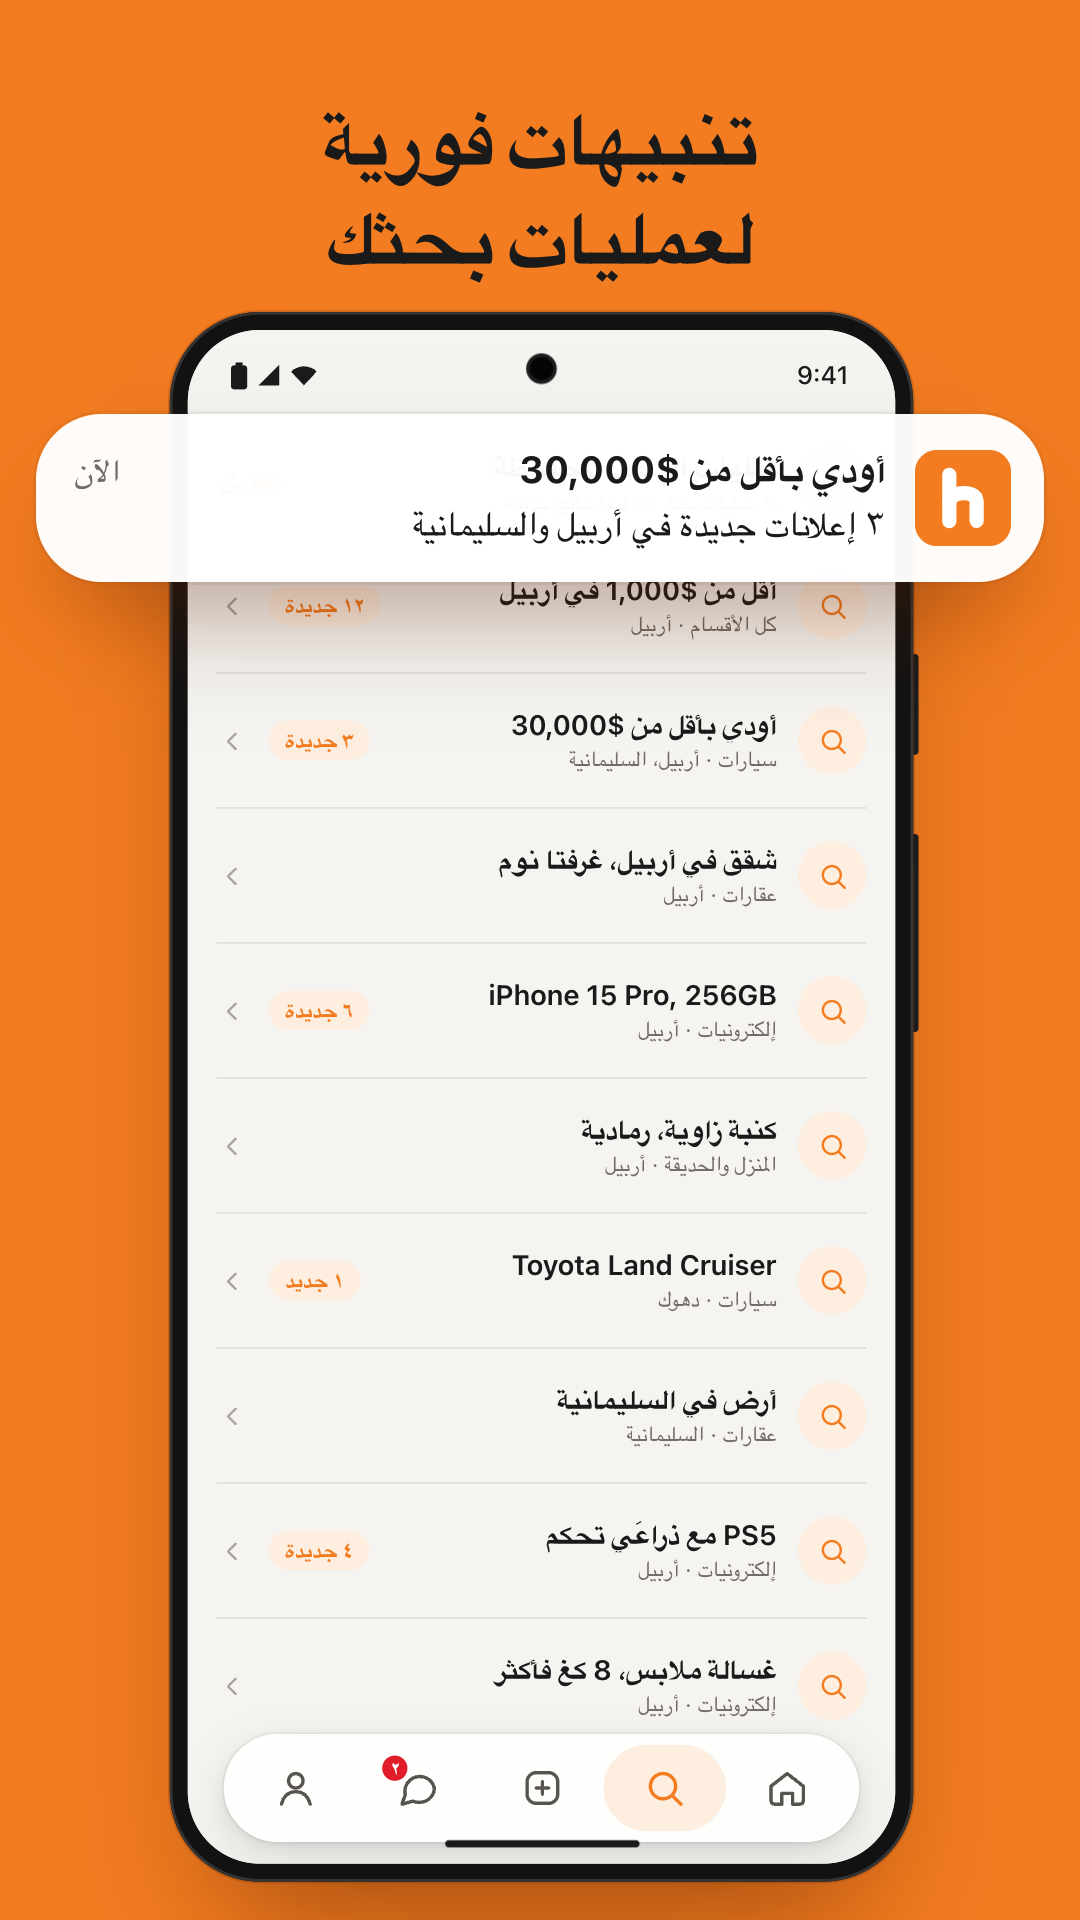
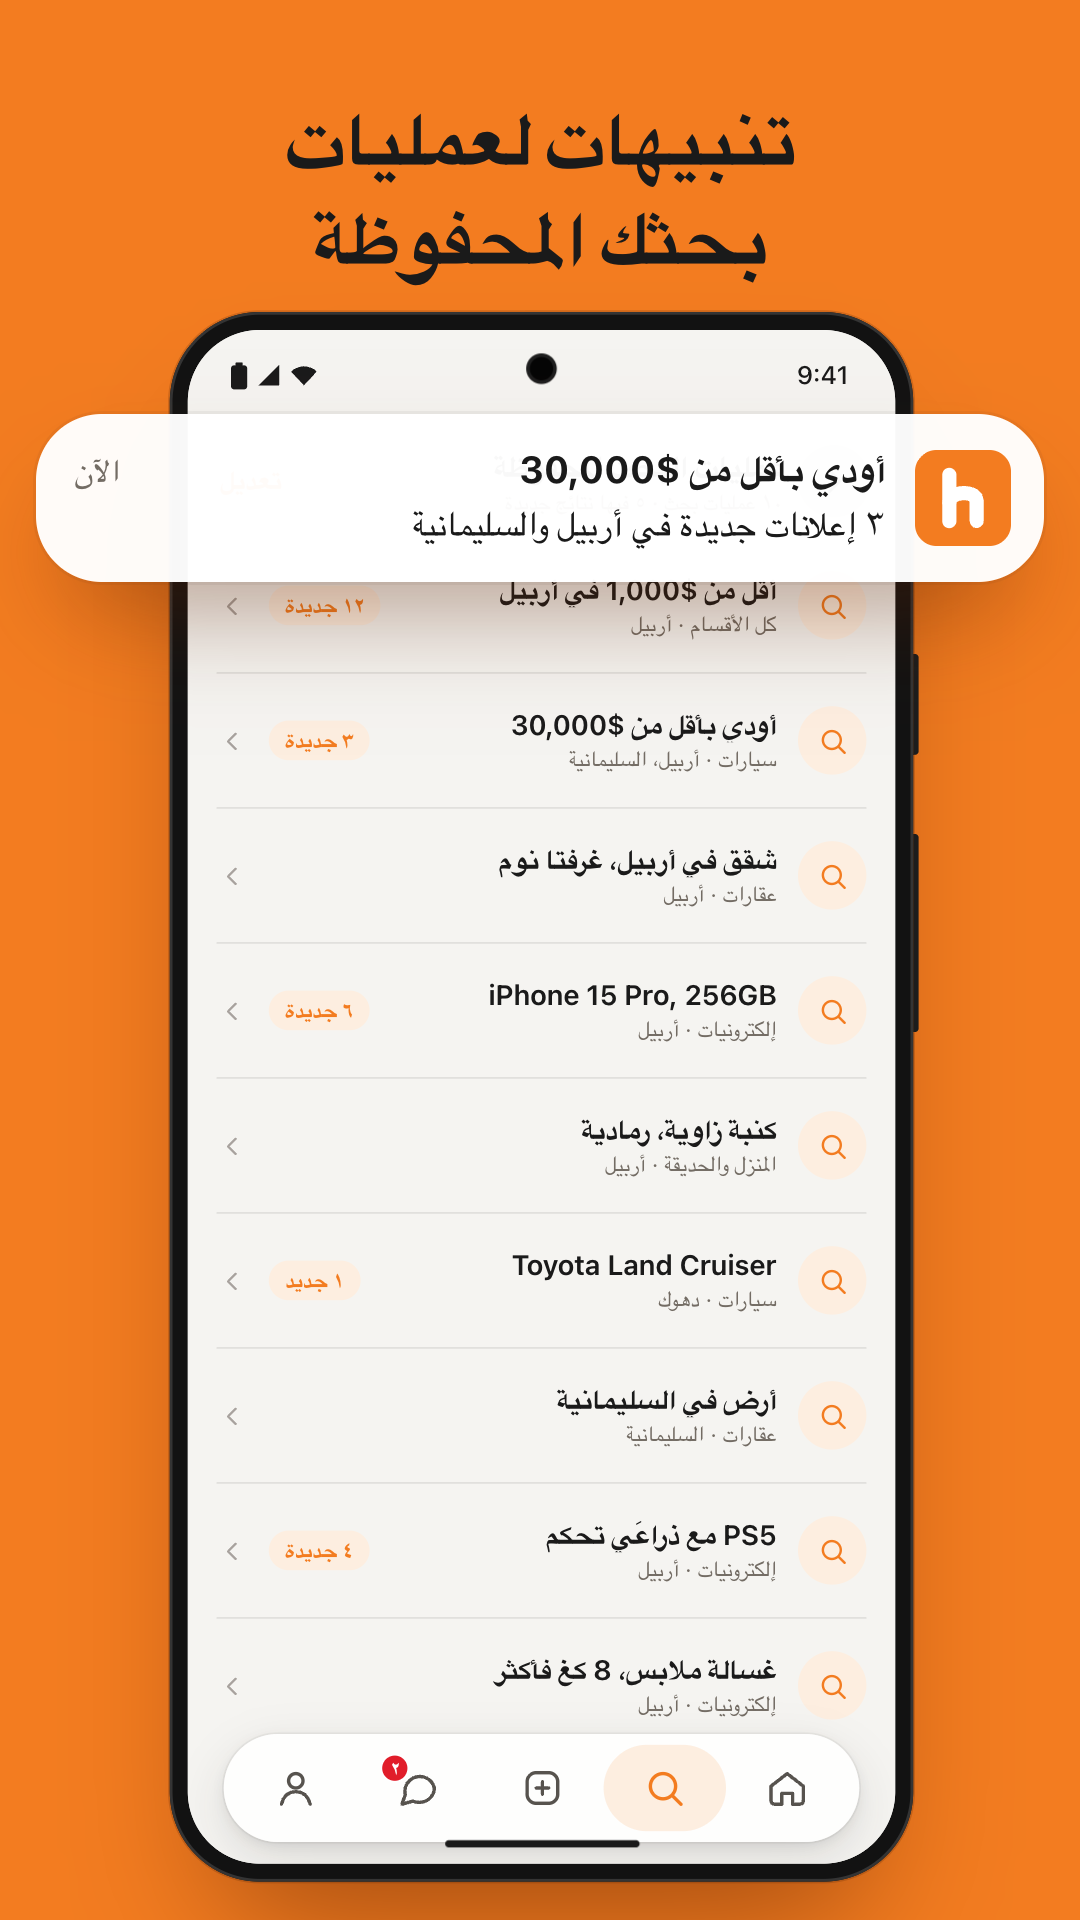
Arabic Alerts headline no longer claims instant alerts
Claude-Session: https://claude.ai/code/session_01LLanbgDBGkSDroRoc1H4Nb

Changed region(s): [[0.275, 0.0625, 0.7333, 0.1562]]

diff --git a/store-screenshots/MANIFEST.md b/store-screenshots/MANIFEST.md
@@ -18,7 +18,7 @@ Screen order is the same in every language: 01 Home, 02 Sell, 03 Filters, 04 Off
 - **Source page:** Store Screenshots.dc.html, Arabic section (text in store-langs.js)
 - **Store locale:** App Store "Arabic" and Google Play "Arabic".
 - **Layout:** right to left, with Eastern Arabic digits for counts and dates. Prices stay as written.
-- **Headlines:** اشترِ وبِع في كل كردستان · بِع خلال دقيقة من كاميرتك · اعثر على ما تريده بالضبط · اتفقا على السعر داخل المحادثة · كل التفاصيل قبل أن تلتقيا · تنبيهات فورية لعمليات بحثك · تابع البائعين الذين تحبهم · مدينتك، أو كل كردستان
+- **Headlines:** اشترِ وبِع في كل كردستان · بِع خلال دقيقة من كاميرتك · اعثر على ما تريده بالضبط · اتفقا على السعر داخل المحادثة · كل التفاصيل قبل أن تلتقيا · تنبيهات لعمليات بحثك المحفوظة · تابع البائعين الذين تحبهم · مدينتك، أو كل كردستان
 
 ## turkish/ (17 files)
 - **Source page:** Store Screenshots.dc.html, Turkish section (text in store-langs.js)
